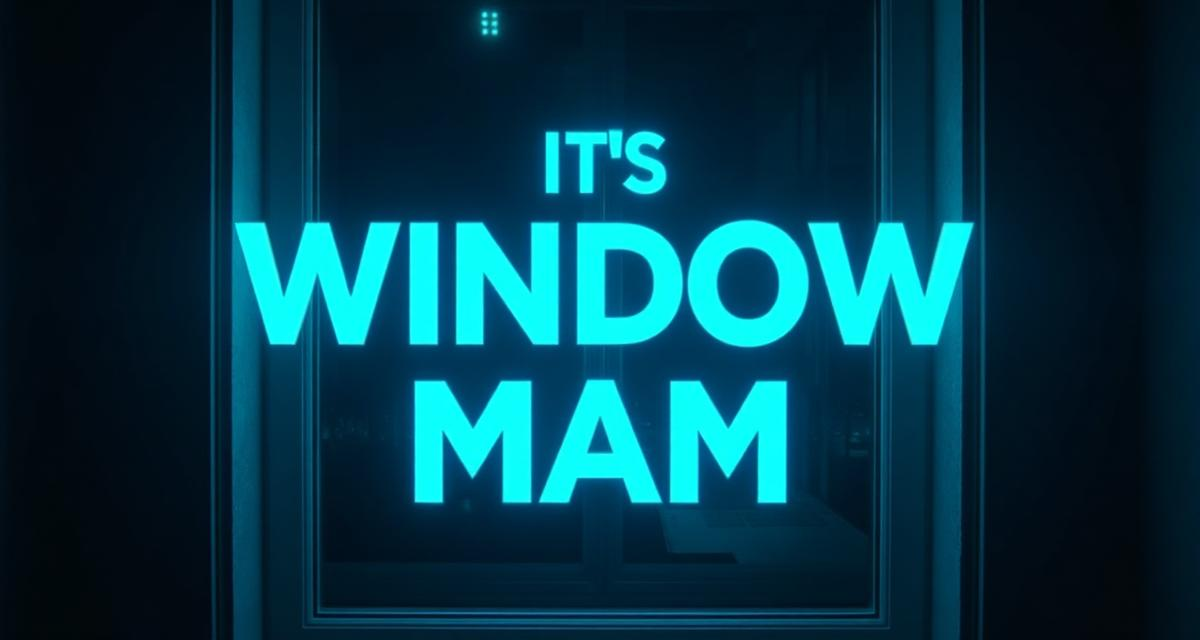
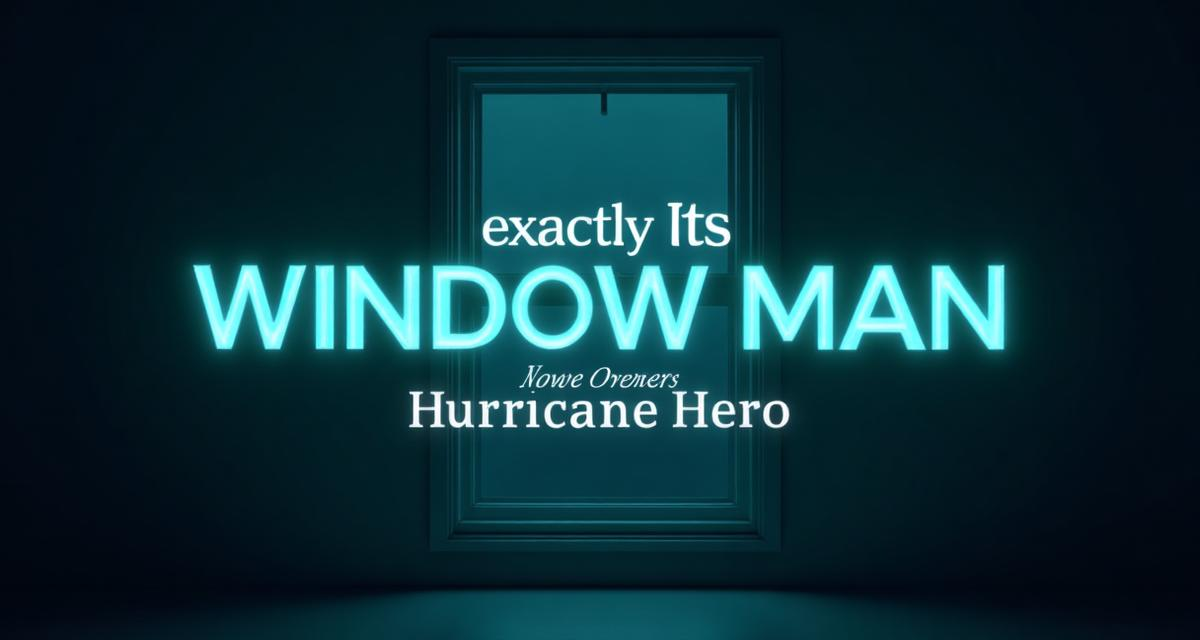
Changes

diff --git a/supabase/functions/send-email-notification/index.ts b/supabase/functions/send-email-notification/index.ts
@@ -30,7 +30,7 @@ function generateEmailContent(payload: EmailPayload): { subject: string; html: s
 
     case 'comparison-report':
       return {
-        subject: '📊 Your Window Comparison Report - The Window Man',
+        subject: '📊 Your Window Comparison Report - Its Window Man',
         html: `
           <h1>Your Personalized Window Comparison</h1>
           <p>Thank you for using our Window Comparison Tool!</p>
@@ -51,15 +51,15 @@ function generateEmailContent(payload: EmailPayload): { subject: string; html: s
           
           <h2>Next Steps</h2>
           <p>Ready to see the difference in person? Schedule a free consultation with our window experts.</p>
-          <p><a href="https://thewindowman.com/consultation">Book Your Free Consultation</a></p>
+          <p><a href="https://itswindowman.com/consultation">Book Your Free Consultation</a></p>
           
-          <p>Best regards,<br>The Window Man Team</p>
+          <p>Best regards,<br>Its Window Man Team</p>
         `,
       };
 
     case 'cost-calculator-report':
       return {
-        subject: '💰 Your Energy Cost Analysis - The Window Man',
+        subject: '💰 Your Energy Cost Analysis - Its Window Man',
         html: `
           <h1>Your Personalized Energy Cost Report</h1>
           <p>Here's your detailed analysis of potential energy savings with high-performance windows.</p>
@@ -73,13 +73,13 @@ function generateEmailContent(payload: EmailPayload): { subject: string; html: s
           
           <p>Contact us to learn more about how you can reduce your energy costs!</p>
           
-          <p>Best regards,<br>The Window Man Team</p>
+          <p>Best regards,<br>Its Window Man Team</p>
         `,
       };
 
     case 'risk-diagnostic-report':
       return {
-        subject: '🛡 Your Window Protection Gap Analysis - The Window Man',
+        subject: '🛡 Your Window Protection Gap Analysis - Its Window Man',
         html: `
           <h1>Your Protection Score: ${data.protectionScore || 0}/100</h1>
           
@@ -96,18 +96,18 @@ function generateEmailContent(payload: EmailPayload): { subject: string; html: s
           
           <h2>Next Steps</h2>
           <p>Schedule a free consultation to discuss how to close your protection gaps.</p>
-          <p><a href="https://thewindowman.com/consultation">Book Your Free Consultation</a></p>
+          <p><a href="https://itswindowman.com/consultation">Book Your Free Consultation</a></p>
           
-          <p>Best regards,<br>The Window Man Team</p>
+          <p>Best regards,<br>Its Window Man Team</p>
         `,
       };
 
     case 'consultation-booked':
       return {
-        subject: '✅ Consultation Confirmed - The Window Man',
+        subject: '✅ Consultation Confirmed - Its Window Man',
         html: `
           <h1>Your Consultation is Booked!</h1>
-          <p>Thank you for scheduling a consultation with The Window Man.</p>
+          <p>Thank you for scheduling a consultation with Its Window Man.</p>
           
           <h2>Consultation Details</h2>
           <ul>
@@ -118,13 +118,13 @@ function generateEmailContent(payload: EmailPayload): { subject: string; html: s
           
           <p>One of our window experts will contact you shortly to confirm your appointment.</p>
           
-          <p>Best regards,<br>The Window Man Team</p>
+          <p>Best regards,<br>Its Window Man Team</p>
         `,
       };
 
     case 'evidence-locker-report':
       return {
-        subject: `📁 Case Study: ${data.caseNumber || 'Verified Mission'} - The Window Man`,
+        subject: `📁 Case Study: ${data.caseNumber || 'Verified Mission'} - Its Window Man`,
         html: `
           <h1>CASE FILE: ${data.caseNumber || 'Verified Mission'}</h1>
           <p><strong>Agent:</strong> ${data.agentName || 'Verified Agent'}</p>
@@ -154,15 +154,15 @@ function generateEmailContent(payload: EmailPayload): { subject: string; html: s
           ` : ''}
           
           <h2>Ready to Open Your Own Case?</h2>
-          <p><a href="https://thewindowman.com/consultation" style="background: #00D4FF; color: #000; padding: 12px 24px; text-decoration: none; border-radius: 6px; display: inline-block;">Schedule Your Free Consultation</a></p>
+          <p><a href="https://itswindowman.com/consultation" style="background: #00D4FF; color: #000; padding: 12px 24px; text-decoration: none; border-radius: 6px; display: inline-block;">Schedule Your Free Consultation</a></p>
           
-          <p>Best regards,<br>The Window Man Team</p>
+          <p>Best regards,<br>Its Window Man Team</p>
         `,
       };
 
     case 'fast-win-report':
       return {
-        subject: '🏆 Your #1 Window Upgrade - The Window Man',
+        subject: '🏆 Your #1 Window Upgrade - Its Window Man',
         html: `
           <h1>Your Fast Win: ${data.productName || 'Your Top Upgrade'}</h1>
           
@@ -184,15 +184,15 @@ function generateEmailContent(payload: EmailPayload): { subject: string; html: s
           
           <h3>Ready to Get Started?</h3>
           <p>Schedule a free consultation to discuss your ${data.productName || 'upgrade'} options.</p>
-          <p><a href="https://thewindowman.com/consultation" style="background: #00D4FF; color: #000; padding: 12px 24px; text-decoration: none; border-radius: 6px; display: inline-block;">Get a Price Quote</a></p>
+          <p><a href="https://itswindowman.com/consultation" style="background: #00D4FF; color: #000; padding: 12px 24px; text-decoration: none; border-radius: 6px; display: inline-block;">Get a Price Quote</a></p>
           
-          <p>Best regards,<br>The Window Man Team</p>
+          <p>Best regards,<br>Its Window Man Team</p>
         `,
       };
 
     case 'intel-resource-delivery':
       return {
-        subject: `📂 Your Document: ${data.resourceTitle || 'Declassified Intel'} - The Window Man`,
+        subject: `📂 Your Document: ${data.resourceTitle || 'Declassified Intel'} - Its Window Man`,
         html: `
           <h1>🔓 DECLASSIFIED: ${data.resourceTitle || 'Your Document'}</h1>
           <p style="color: #00D4FF; font-weight: bold;">${data.resourceTagline || 'Intel Library Document'}</p>
@@ -212,9 +212,9 @@ function generateEmailContent(payload: EmailPayload): { subject: string; html: s
           
           <h2>Ready for Personalized Intel?</h2>
           <p>These guides are just the beginning. Get a custom analysis of your specific situation.</p>
-          <p><a href="https://thewindowman.com/consultation">Schedule Your Free Consultation</a></p>
+          <p><a href="https://itswindowman.com/consultation">Schedule Your Free Consultation</a></p>
           
-          <p>Best regards,<br>The Window Man Team</p>
+          <p>Best regards,<br>Its Window Man Team</p>
         `,
       };
 
@@ -240,17 +240,17 @@ function generateEmailContent(payload: EmailPayload): { subject: string; html: s
           <p>Every document you upload strengthens your claim documentation. A complete vault = maximum protection against claim denials.</p>
           
           <p style="margin: 24px 0;">
-            <a href="https://thewindowman.com/claim-survival" style="background: #00D4FF; color: #000; padding: 12px 24px; text-decoration: none; border-radius: 6px; display: inline-block; font-weight: bold;">Return to Your Vault</a>
+            <a href="https://itswindowman.com/claim-survival" style="background: #00D4FF; color: #000; padding: 12px 24px; text-decoration: none; border-radius: 6px; display: inline-block; font-weight: bold;">Return to Your Vault</a>
           </p>
           
-          <p>Best regards,<br>The Window Man Team</p>
+          <p>Best regards,<br>Its Window Man Team</p>
         `,
       };
 
     default:
       return {
-        subject: 'Notification from The Window Man',
-        html: `<p>Thank you for your interest in The Window Man.</p>`,
+        subject: 'Notification from Its Window Man',
+        html: `<p>Thank you for your interest in Its Window Man.</p>`,
       };
   }
 }
@@ -321,7 +321,7 @@ serve(async (req) => {
         'Content-Type': 'application/json',
       },
       body: JSON.stringify({
-        from: 'The Window Man <notifications@thewindowman.com>',
+        from: 'Its Window Man <notifications@itswindowman.com>',
         to: [email],
         subject,
         html,

diff --git a/src/components/comparison/ConsultationCTA.tsx b/src/components/comparison/ConsultationCTA.tsx
@@ -13,7 +13,7 @@ export function ConsultationCTA({ onBookConsultation }: ConsultationCTAProps) {
           {/* Badge */}
           <div className="inline-flex items-center gap-2 px-4 py-2 rounded-full bg-primary/10 border border-primary/30 text-primary text-sm font-medium mb-6">
             <Award className="w-4 h-4" />
-            Tier 3: The Window Man Standard
+            Tier 3: Its Window Man Standard
           </div>
 
           {/* Headline */}

diff --git a/src/data/windowData.ts b/src/data/windowData.ts
@@ -77,7 +77,7 @@ export const windowTiers: WindowTier[] = [
   },
   {
     id: 'tier3',
-    name: 'The Window Man Standard',
+    name: 'Its Window Man Standard',
     subtitle: 'High-Performance Impact',
     upfrontCostPerWindow: 850,
     energyEfficiencyFactor: 0.85, // 15% better than baseline (lower = less energy cost)
